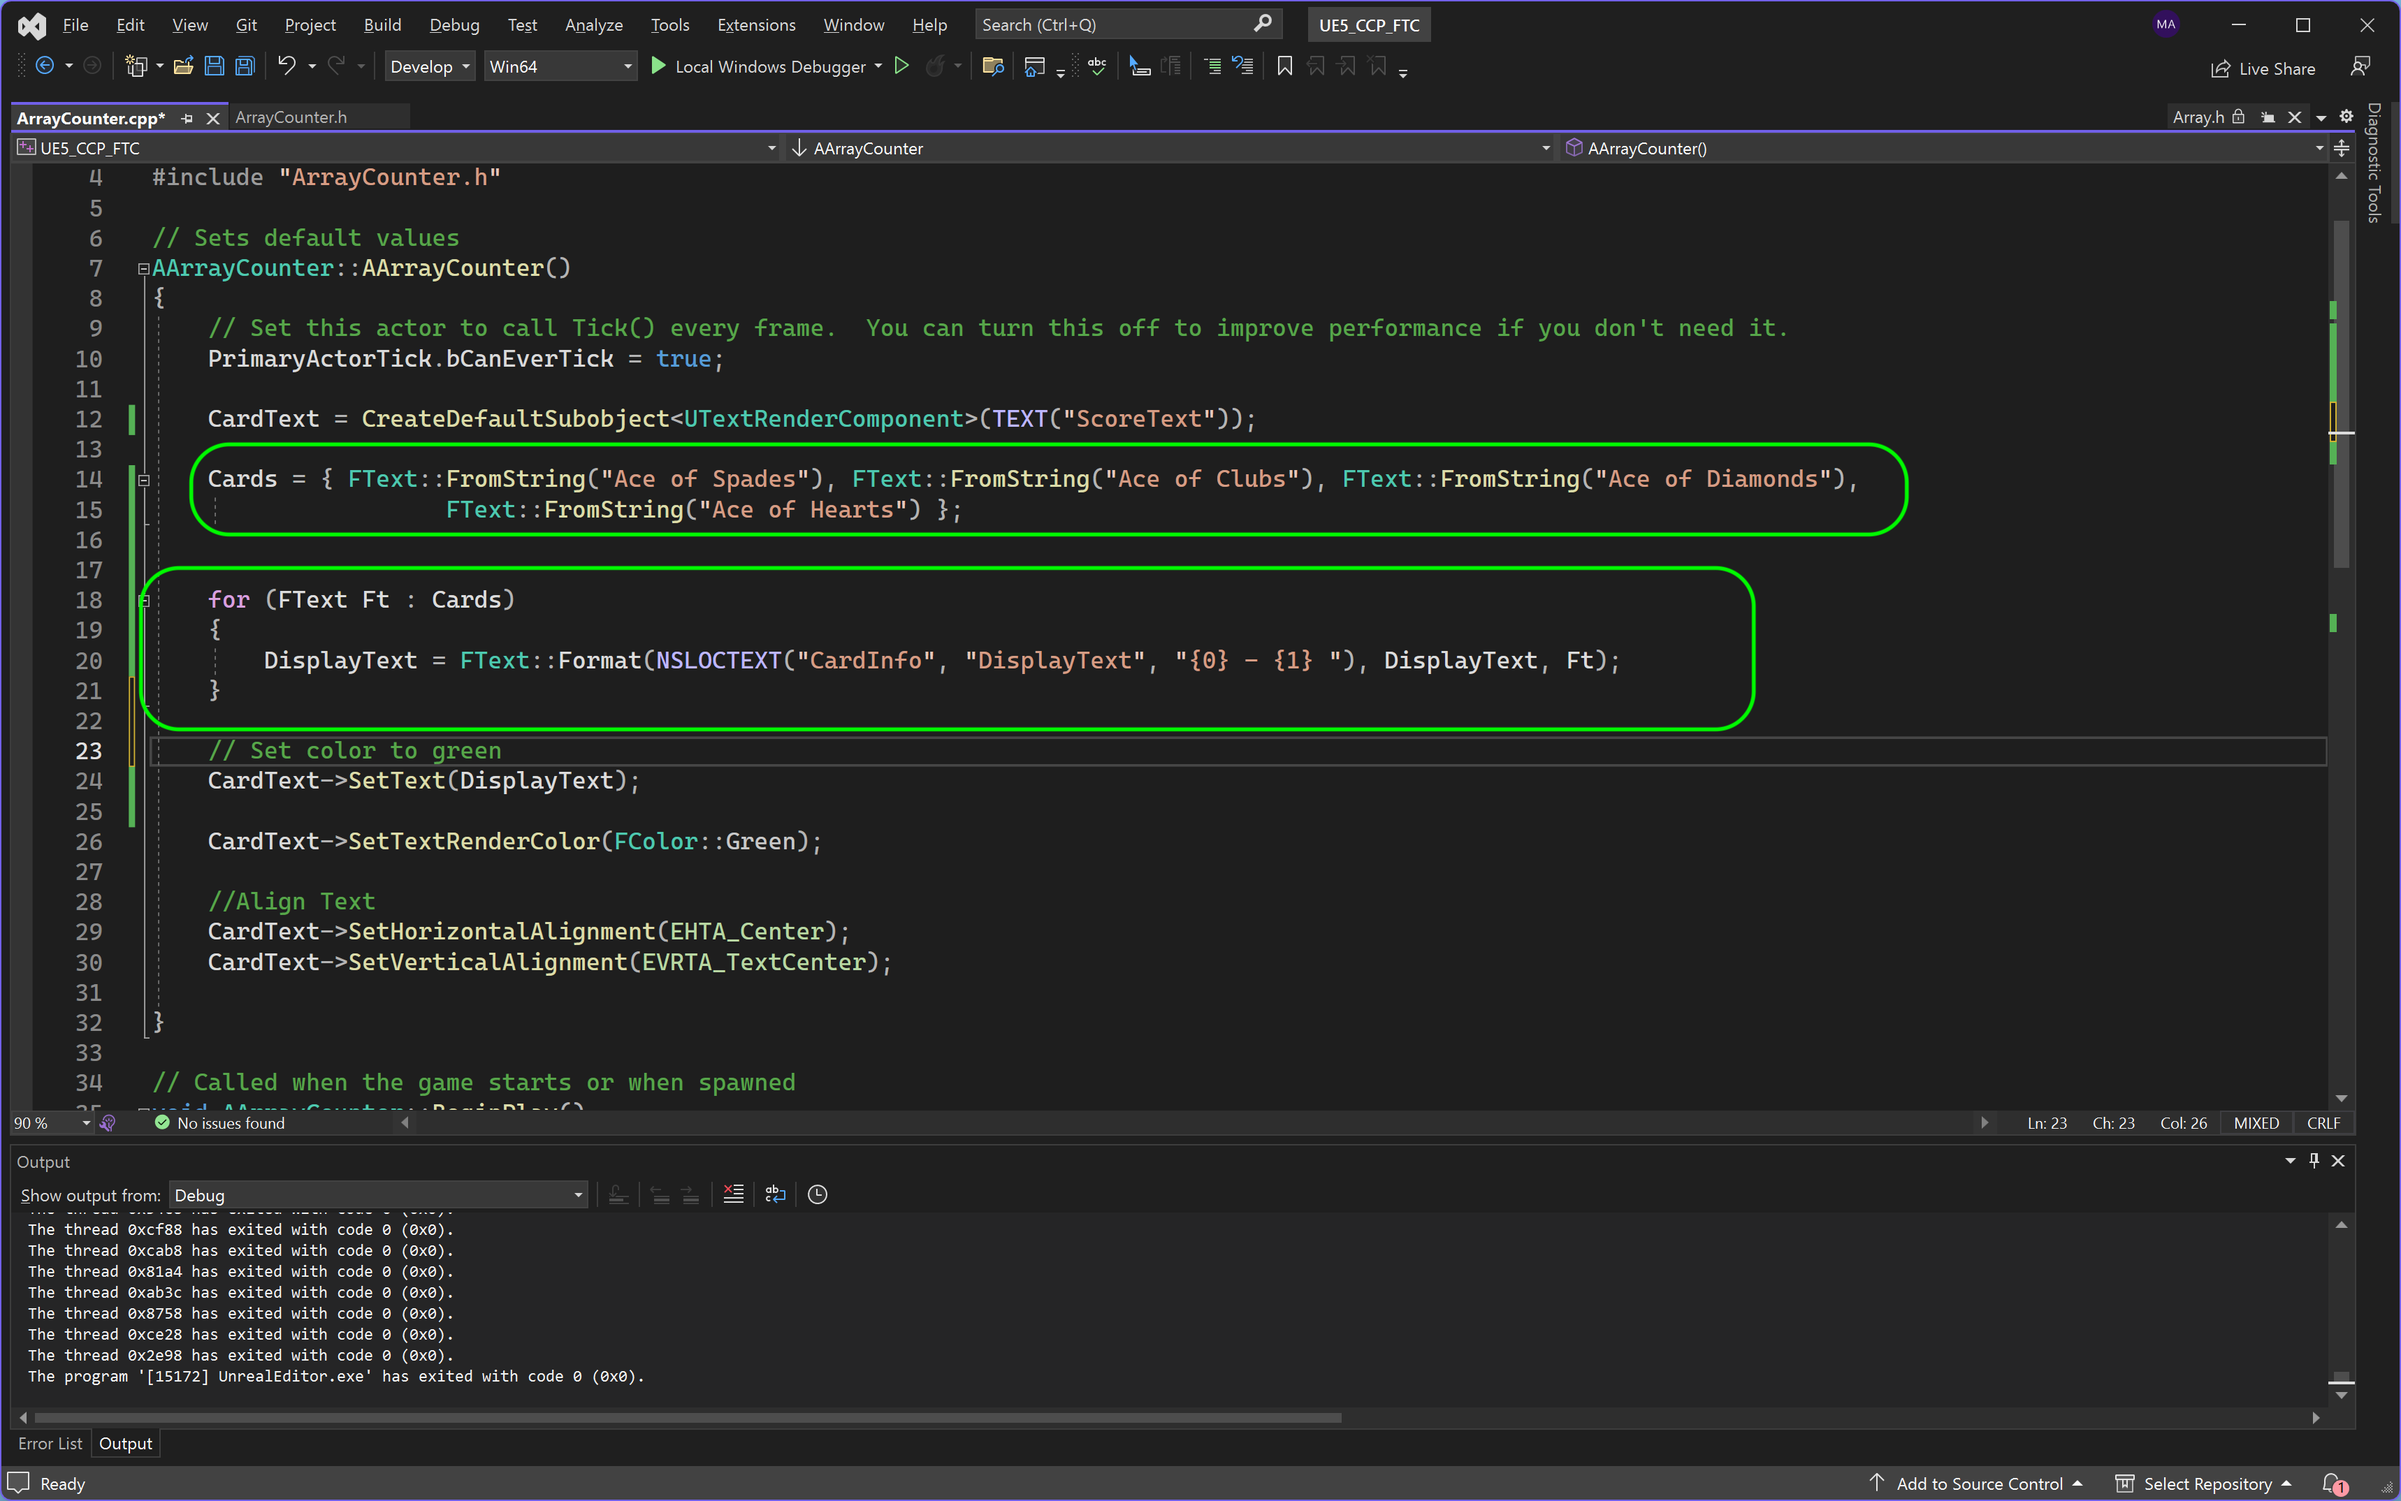
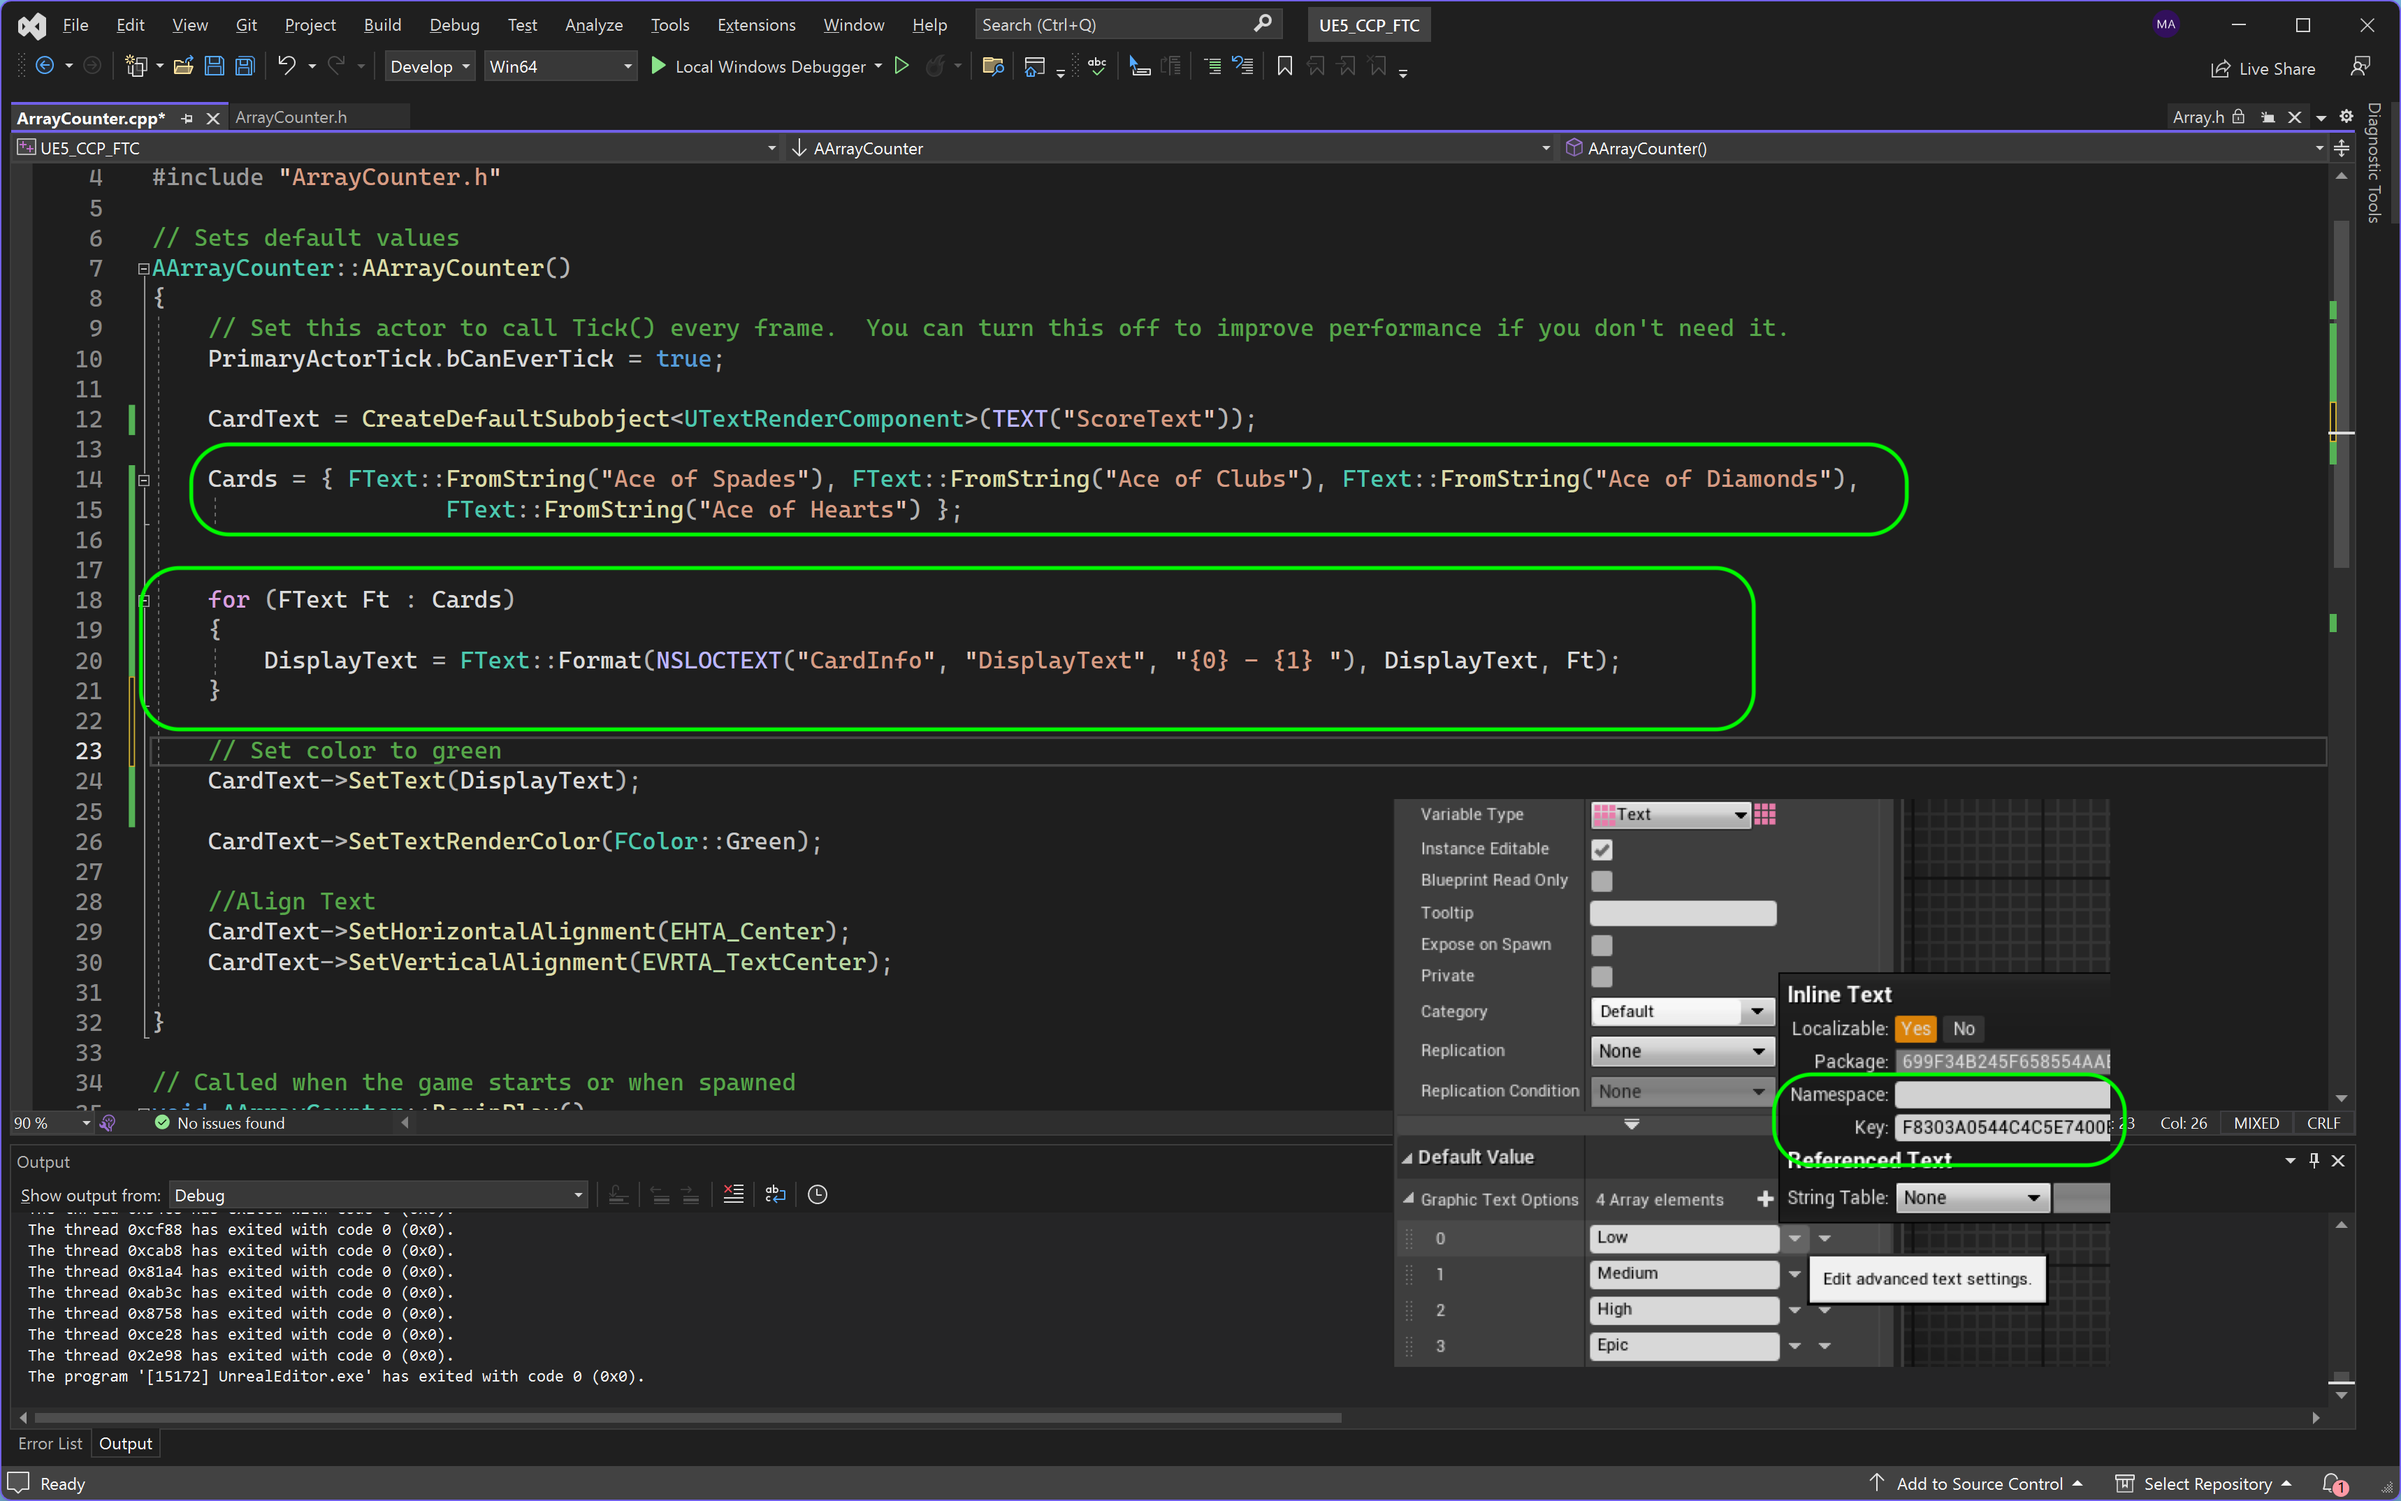
Update to Unreal 5.2

Changed region(s): [[0.5605, 0.53, 0.9031, 0.9353]]

diff --git a/containers/README.md b/containers/README.md
@@ -184,11 +184,23 @@ Now lets go back to our Unreal **UE5_CPP_FTC** project. The standard C++ STL can
 
 Open up **ArrayCounter.h** and change the **Card** from a static array to a **TArray**. Now TARray's are supported in Blueprints so you can make the **UPROPERTY** a **BlueprintReadWrite** and can access this class directly. 
 
+In the Blueprints we were able to access the **Format** node.  In C++ we need to include its namespace and key.  This is for text localizaiton so when you switch languages the engine will use the correct text for the game.  Remember that the **Text** type is for customer facing text that might need to be localized.  So to **Format** in C++ we need to call a macro function `NSLOCTEXT` and include the Namespace, and the Key. In the blueprint this is done automatically where if you press the small arrow in the Text or click on the flag you will get the **Namespace** (which defaults to blank) and a hash for a key that is not human readable.  In this case I am using the **Namespace** of `CardInfo` and the key as a human readable `DisplayText`.  Then we use the same method to have concatonation by including each variable with `{int}`.  Then we have a comma and the first variable goes with `0` and the second goes with `1`.
+
 ![add TArray](images/changeToTArray.png)
 
 ![](../images/line2.png)
 
 ##### `Step 14.`\|`UECPPFTC`| :large_blue_diamond: :small_blue_diamond: :small_blue_diamond: :small_blue_diamond:  :small_blue_diamond: 
+
+Now in the **ArrayCounter.cpp** we can assign the variable in a single line with all four text strings. Unreal has included a range based loop for **TArray**'s where we can use the same syntax as a vector. with 
+
+```cpp
+for (Ftext Ft: Cards)
+```
+
+which will loop through all the cards in the **TArray**.
+
+Now to concatonate text we 
 
 ![alt_text](images/addArrayDef.png)
 
